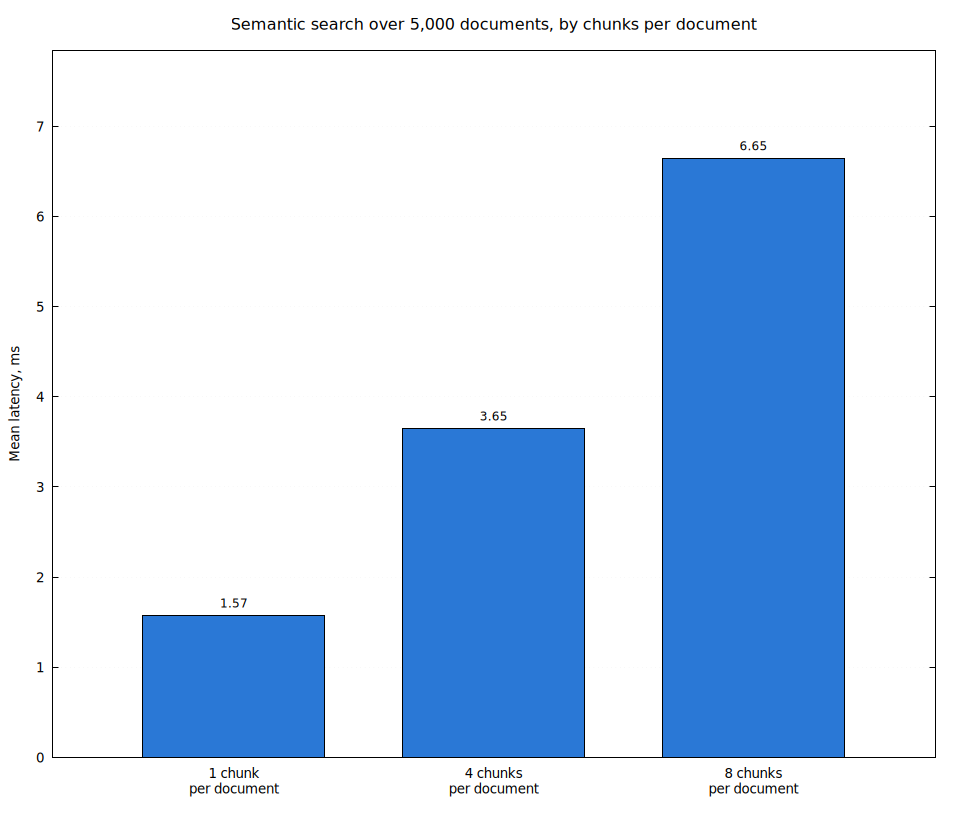
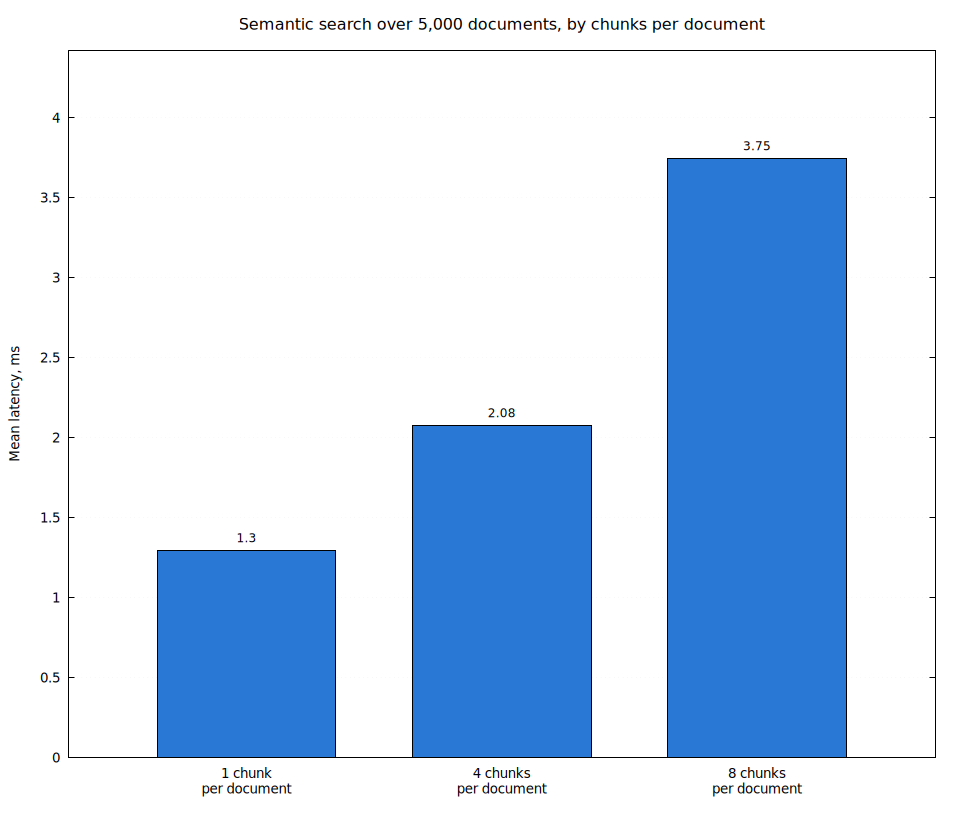
Fix the typed-range and semantic-search benchmarks, and re-measure
bench_typed: BenchKey stored its id as an rkyv u64, which archives
little-endian, so byte order was not id order and typed/range's "100/500/1000
results" returned other counts (~780 of 2,000 for "100"). The id is now
big-endian bytes, and the bench asserts each range returns its labelled count.

bench_distance_estimation: the end-to-end sweeps queried with 4 synthetic
vectors; production embeds a query as one vector reused for both passes. The
chunks-per-document sweep now uses that shape, and the query-vector sweep adds
the 1-vector case beside 4 and 40.

Re-ran bench_typed and the end-to-end semantic groups. benchmark.md now has
typed range rows (+1-8% over raw) and semantic search at production's shape:
1.3 / 2.1 / 3.7 ms at 1 / 4 / 8 chunks per document, down from the 4-vector
1.6 / 3.7 / 6.6 ms the report showed.

API README: documents POST /admin/storage/gc/wal with its corrected fields.

diff --git a/minnal_db/benches/bench_distance_estimation.rs b/minnal_db/benches/bench_distance_estimation.rs
@@ -244,6 +244,14 @@ fn synthetic_query_chunks(t: usize) -> Vec<Vec<f32>> {
     (0..t).map(|_| (0..DIM).map(|_| next_f32()).collect()).collect()
 }
 
+/// Pass-1 query vectors for a `t`-vector query. `t == 1` is what production
+/// sends — the whole-query embedding, reused as the single sparse vector
+/// (`QueryEmbeddings { sparse: vec![dense.clone()], dense }`); larger `t` uses
+/// synthetic vectors to exercise multi-vector MaxSim.
+fn production_or_synthetic_query(t: usize, dense_query: &[f32]) -> Vec<Vec<f32>> {
+    if t == 1 { vec![dense_query.to_vec()] } else { synthetic_query_chunks(t) }
+}
+
 /// Union the top-`n` clusters across query chunks, the way `service::search` does —
 /// so the bench measures the whole Pass-1 coarse-assignment step, not just one scan.
 fn union_dedup(per_query: Vec<Vec<u32>>) -> Vec<u32> {
@@ -406,8 +414,11 @@ fn bench_end_to_end_search(c: &mut Criterion) {
     let mut group = c.benchmark_group("end_to_end_search");
     group.measurement_time(Duration::from_secs(10));
 
-    for &t in &[4usize, 40] {
-        let sparse_query = synthetic_query_chunks(t);
+    // T = 1 is production's shape: the query is embedded whole, and that one
+    // vector is both the Pass-1 MaxSim vector and the Pass-2 dense vector.
+    // T = 4 and 40 exercise the general multi-vector MaxSim `search()` accepts.
+    for &t in &[1usize, 4, 40] {
+        let sparse_query = production_or_synthetic_query(t, &dense_query);
         group.throughput(Throughput::Elements(t as u64));
         group.bench_with_input(BenchmarkId::from_parameter(t), &t, |b, _| {
             b.iter(|| {
@@ -444,12 +455,12 @@ fn bench_end_to_end_search(c: &mut Criterion) {
 // share — the number that decides whether pruning Pass-1 (lever #2) is worth pursuing.
 fn bench_end_to_end_multichunk(c: &mut Criterion) {
     const N_DOCS: usize = 5_000;
-    const T: usize = 4; // representative query length
+    const T: usize = 1; // production: one whole-query vector
     let raw = read_clusters_from_file(CLUSTER_PATH).expect("bench setup: failed to load clusters");
     let cluster_map: HashMap<u32, Cluster> = raw.into_iter().map(|(id, c)| (id, Cluster::new(id, c))).collect();
     let index = ClusterIndex::from_clusters(cluster_map.clone());
     let dense_query = load_or_generate_embeddings().query;
-    let sparse_query = synthetic_query_chunks(T);
+    let sparse_query = production_or_synthetic_query(T, &dense_query);
     let config = SemanticSearchConfig::default();
 
     let rt = tokio::runtime::Builder::new_multi_thread()

diff --git a/minnal_db/benches/bench_typed.rs b/minnal_db/benches/bench_typed.rs
@@ -66,11 +66,16 @@ impl AutoCloseDb {
 // the archived key started with `id`'s bytes and "bench_kk" landed at
 // offset 8, so every prefix scan matched zero entries and reported a
 // near-instant, meaningless latency instead of a real scan cost.
+//
+// `id` is stored as big-endian bytes, not a `u64`: rkyv archives integers
+// little-endian, whose byte order is not numeric order, so a byte range from
+// key 0 to key 100 would not select ids 0..100 and `typed/range`'s result
+// counts would be wrong. Big-endian bytes make key order match id order.
 #[derive(Archive, Serialize, Deserialize, Clone, Debug, PartialEq)]
 #[rkyv(compare(PartialEq), derive(Debug))]
 struct BenchKey {
     prefix: [u8; 8],
-    id: u64,
+    id: [u8; 8],
 }
 
 #[derive(Archive, Serialize, Deserialize, Clone, Debug, PartialEq)]
@@ -84,7 +89,10 @@ impl BenchKey {
     fn new(seq: u64) -> Self {
         let mut prefix = [0u8; 8];
         prefix.copy_from_slice(b"bench_kk");
-        Self { prefix, id: seq }
+        Self {
+            prefix,
+            id: seq.to_be_bytes(),
+        }
     }
 }
 
@@ -271,6 +279,9 @@ fn bench_range_typed(c: &mut Criterion) {
         for result_count in [100u64, 500, 1_000] {
             let start = BenchKey::new(0);
             let end = BenchKey::new(result_count);
+            // The label is the result count, so check the range really returns it.
+            let n = db.db().range_typed::<BenchKey, BenchValue>(&start, Some(&end)).unwrap().len();
+            assert_eq!(n as u64, result_count, "typed/range: [0, {result_count}) returned {n} keys");
 
             group.throughput(Throughput::Elements(result_count));
             let label = format!("{tier}_result_count");

diff --git a/minnal_db/benchmark.md b/minnal_db/benchmark.md
@@ -17,7 +17,7 @@ to other hardware much better than the raw microseconds do.
 | Scanning 1,000 keys with their values | 0.3–0.5 ms | [Scans](#scans) |
 | A field-index equality query over 100,000 rows | 11–33 µs | [Field-index queries](#field-index-queries) |
 | A field-index range query over 100,000 rows | 0.5–1.1 ms | [Field-index queries](#field-index-queries) |
-| A semantic search over 5,000 documents | 1.6–6.6 ms, excluding the embedding call | [Semantic search](#semantic-search) |
+| A semantic search over 5,000 documents | 1.3–3.7 ms, excluding the embedding call | [Semantic search](#semantic-search) |
 
 The one number that shapes everything else: **a write costs 2.3 ms because it
 waits for the disk to confirm the data is safe** (an fsync). The rest of the
@@ -50,8 +50,8 @@ because writes fsync one at a time.
 | Machine | AMD Ryzen 9 9950X3D (16 cores), 96 GB RAM, NVMe SSD, bare metal |
 | OS | Ubuntu 26.04, Linux 7.0.0-34 |
 | Rust | 1.96.0 |
-| Code | commit `e5d15c9`; the semantic-search suite at `2559786` |
-| Date | 2026-09-26 |
+| Code | commit `e5d15c9`; the typed and semantic-search suites re-run on 2026-09-27 |
+| Date | 2026-09-26 (typed and semantic search: 2026-09-27) |
 
 To reproduce everything, including the charts:
 
@@ -242,22 +242,32 @@ it adds nothing measurable:
 
 | Operation | Raw bytes | Typed |
 |---|---:|---:|
-| `put`, 128 B | 2.272 ms | 2.281 ms |
-| `put`, 4 KiB | 2.293 ms | 2.298 ms |
+| `put`, 128 B | 2.272 ms | 2.296 ms |
+| `put`, 4 KiB | 2.293 ms | 2.326 ms |
 | `get` from memory, 128 B | 0.37 µs | 0.33 µs |
-| `get` from disk, 128 B | 3.22 µs | 3.09 µs |
-| `get` from disk, 4 KiB | 3.37 µs | 3.28 µs |
+| `get` from disk, 128 B | 3.22 µs | 3.11 µs |
+| `get` from disk, 4 KiB | 3.37 µs | 3.32 µs |
 
 The typed reads come out slightly faster than the raw ones. That is within the
 noise for sub-microsecond cases, not a real speed-up.
 
-Scans cost 9–25% more typed, because every returned pair is deserialised. A prefix scan of 100 keys takes 54 µs
-typed against 49 µs raw in memory, and 85 µs against 74 µs on disk.
+Scans cost more typed, because every returned pair is deserialised:
+
+| Scan | Raw bytes | Typed | Extra |
+|---|---:|---:|---:|
+| range, 100 results, in memory | 54 µs | 57 µs | +6% |
+| range, 1,000 results, in memory | 353 µs | 383 µs | +8% |
+| range, 100 results, on disk | 84 µs | 89 µs | +5% |
+| range, 1,000 results, on disk | 463 µs | 468 µs | +1% |
+| prefix, 100 keys, in memory | 49 µs | 57 µs | +15% |
+| prefix, 1,000 keys, in memory | 290 µs | 362 µs | +25% |
+| prefix, 100 keys, on disk | 74 µs | 85 µs | +15% |
+| prefix, 1,000 keys, on disk | 406 µs | 466 µs | +15% |
 
 One typed operation is slow for a structural reason. `keys_typed`, which lists
 keys without values, takes about 260 µs even for 100 keys, in memory or on disk.
-That is five times as long as reading the same 100 keys *with* their values
-(55 µs). Key listing goes through the same full-store merge that value-log
+That is about four and a half times as long as reading the same 100 keys *with*
+their values (57 µs). Key listing goes through the same full-store merge that value-log
 garbage collection uses. Reading with values uses the faster range scan. Until
 that changes, a range or prefix scan is the cheaper way to list keys.
 
@@ -329,13 +339,14 @@ vectors. Pass 2 re-scores the best candidates with more precise vectors. (See
 [Semantic-Search-Architecture.md](src/semantic_search/Semantic-Search-Architecture.md).)
 This benchmark runs the full search over an in-memory store of 5,000
 documents. It uses the project's bundled 256 cluster centroids, synthetic
-768-dimension vectors, and the default settings (64 clusters probed).
+768-dimension vectors, the default settings (64 clusters probed), and a query
+shaped like production's: one vector for the whole query.
 
 ![Semantic search latency by chunks per document](docs/benchmarks/semantic_search.png)
 
 A document is split into overlapping chunks, and Pass 1 scores every chunk in
-the clusters it probes. So search time grows with chunks per document: 1.6 ms
-with one chunk, 3.7 ms with four, 6.6 ms with eight. Pass 2 re-scores a fixed
+the clusters it probes. So search time grows with chunks per document: 1.3 ms
+with one chunk, 2.1 ms with four, 3.7 ms with eight. Pass 2 re-scores a fixed
 number of candidates, so its cost does not grow.
 
 How these numbers relate to a real query:
@@ -343,11 +354,9 @@ How these numbers relate to a real query:
 - **The embedding call is not included.** A real query first sends its text to
   the embedding service, and that round trip usually takes longer than
   everything measured here. Repeated queries are served from a cache.
-- **The query shape differs from production.** The benchmark queries with four
-  vectors, but production embeds a query as one vector. With 40 query vectors the
-  search takes 3.2 ms, against 1.6 ms with four, so a one-vector query should be
-  somewhat cheaper than these figures. Nobody has measured the one-vector case
-  yet.
+- **Multi-vector queries cost more.** `search()` also accepts several query
+  vectors (production sends one). At one chunk per document, a 1-vector query
+  takes 1.25 ms, 4 vectors 1.9 ms and 40 vectors 3.3 ms.
 - **Real data is clumpier.** Synthetic vectors spread evenly across clusters.
   Real embeddings pile into a few, and a query probing those clusters scans far
   more chunks. Latency on real data depends mostly on how many chunks the probed
